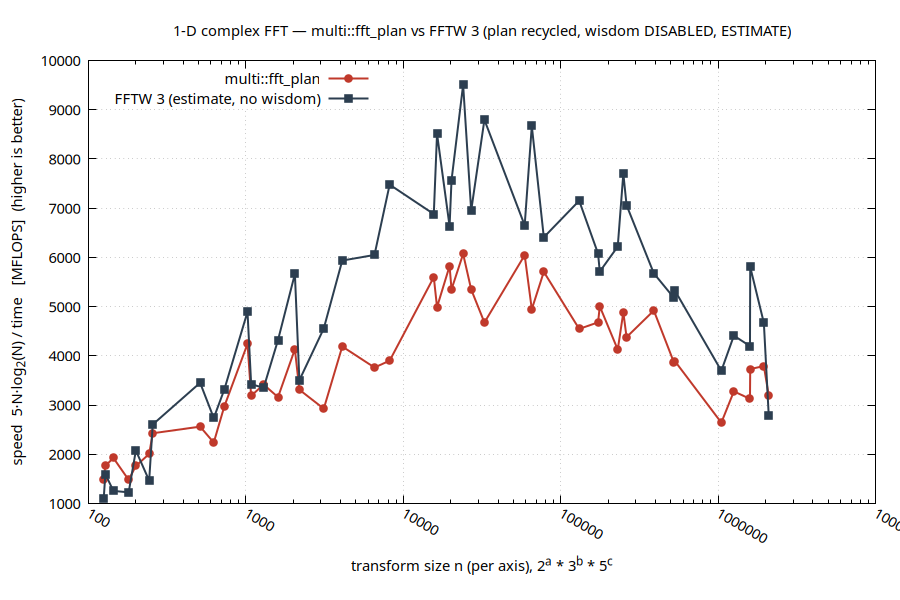
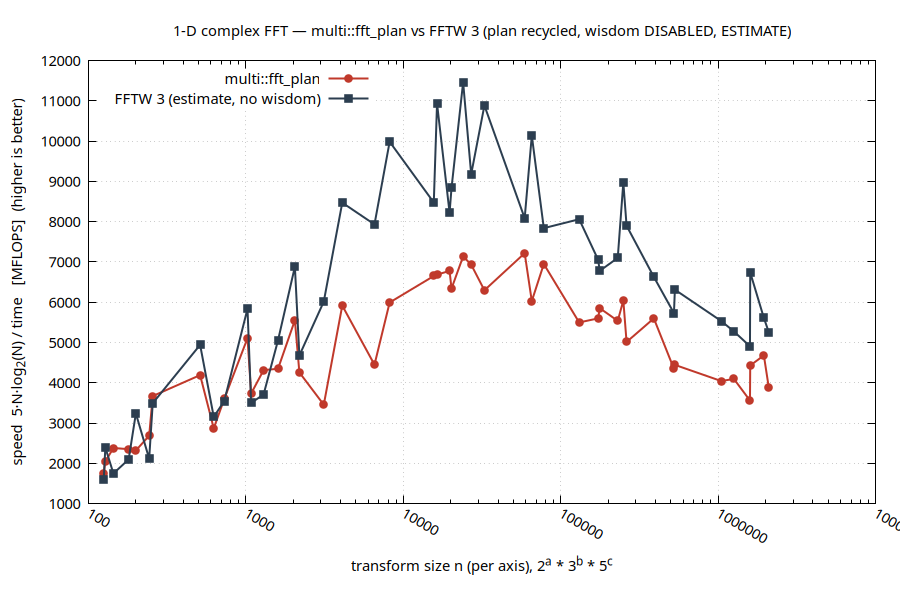
fft.NOTES.md: add §11.19, re-scoping the target against FFTW_ESTIMATE
After §11.9-§11.18 exhausted the easy algorithmic wins against FFTW_MEASURE
(unseq/par/fma/-ffast-math/split-radix/radix-16 all reverted; the
allocator fix, §11.15/16, is the one real win landed), re-measured against
the much weaker FFTW_ESTIMATE+nowisdom baseline using the existing
-DUSE_ESTIMATE build mode, current (arena-fixed) code.

Result: outright wins in 8/45 (1D), 8/28 (2D), 6/20 (3D) sizes, and much
closer everywhere else (1.1-1.8x vs 2-4x against MEASURE). Wins cluster in
small/odd-composite 1D and large 2D/3D sizes (up to 2x faster at 3D
n=256). The remaining concentrated gap is the same mid-range
power-of-two 1D band (n~2048-65536) that radix-16 tried and failed to
close -- the practical target has moved from "close a broad MEASURE gap"
to "close one narrow band," and the next lever there needs a different
shape (reducing existing kernels' temporary count, not a bigger radix).

Regenerates the tracked fft_bench_{1d,2d,3d}_estimate.dat/.png (were
stale, predating the allocator fix). No product code changed.

diff --git a/include/boost/multi/algorithms/fft.NOTES.md b/include/boost/multi/algorithms/fft.NOTES.md
@@ -2324,3 +2324,110 @@ re-association, or explicit narrower SIMD-width batching so the
 itself) -- is the more promising direction if this candidate is revisited,
 but that's a different, not-yet-scoped design task, not a variant of what
 was tried here.
+
+### 11.19 Re-scoping the target: how close are we to FFTW_ESTIMATE (nowisdom)? (2026-07-11)
+
+After §11.9-§11.18 (unseq/par/fma/-ffast-math/split-radix/radix-16 all
+tried and reverted; the one real win, §11.15/§11.16's allocator fix, is
+in), the FFTW_MEASURE comparison this whole file tracks is a strong
+baseline -- FFTW's own runtime codelet search picks close to its best
+possible execution strategy for each size. A more modest, and possibly
+more useful, question: how do we compare to FFTW_ESTIMATE (wisdom
+disabled), which skips that search and uses generic heuristics instead --
+a much weaker target, and one worth knowing the current distance to now
+that the easy algorithmic wins are exhausted.
+
+**Method**: the existing `-DUSE_ESTIMATE -DDISABLE_WISDOM` build mode
+(already supported by `benchmark/algorithms_fft.cpp`, already had
+tracked-but-stale `_estimate.dat`/`.png` outputs from before this
+session's allocator fix) re-run against the CURRENT code (post §11.16's
+arena fix, radix-16 fully reverted per §11.18) -- same methodology
+(flushed cache, interleaved timing, plan-recycled), same idle/AC/cool
+machine. No product-code changes in this section; measurement only,
+against an already-existing build configuration.
+
+**Result: much closer, and outright ahead in large parts of the
+parameter space.**
+
+| dimensionality | sizes tested | outright wins (ratio < 1.0) |
+|---|---|---|
+| 1-D | 45 | 8 |
+| 2-D | 28 | 8 |
+| 3-D | 20 | 6 |
+
+Full 1-D (`n`, `N_total`, ratio to FFTW_ESTIMATE, lower is better):
+
+| n | N | ratio | | n | N | ratio |
+|---|---|---|---|---|---|---|
+| 125 | 125 | 0.917 W | | 20250 | 20,250 | 1.394 |
+| 128 | 128 | 1.168 | | 24000 | 24,000 | 1.606 |
+| 144 | 144 | 0.734 W | | 27000 | 27,000 | 1.324 |
+| 180 | 180 | 0.893 W | | 32768 | 32,768 | 1.729 |
+| 200 | 200 | 1.396 | | 59049 | 59,049 | 1.120 |
+| 243 | 243 | 0.787 W | | 65536 | 65,536 | 1.681 |
+| 256 | 256 | 0.951 W | | 78125 | 78,125 | 1.128 |
+| 512 | 512 | 1.179 | | 131072 | 131,072 | 1.466 |
+| 625 | 625 | 1.099 | | 172800 | 172,800 | 1.261 |
+| 729 | 729 | 0.986 W | | 177147 | 177,147 | 1.159 |
+| 1024 | 1,024 | 1.143 | | 230400 | 230,400 | 1.282 |
+| 1080 | 1,080 | 0.937 W | | 250000 | 250,000 | 1.485 |
+| 1296 | 1,296 | 0.860 W | | 262144 | 262,144 | 1.576 |
+| 1600 | 1,600 | 1.162 | | 390625 | 390,625 | 1.184 |
+| 2048 | 2,048 | 1.239 | | 524288 | 524,288 | 1.318 |
+| 2187 | 2,187 | 1.099 | | 531441 | 531,441 | 1.420 |
+| 3125 | 3,125 | 1.741 | | 1048576 | 1,048,576 | 1.368 |
+| 4096 | 4,096 | 1.432 | | 1259712 | 1,259,712 | 1.288 |
+| 6561 | 6,561 | 1.783 | | 1594323 | 1,594,323 | 1.379 |
+| 8192 | 8,192 | 1.666 | | 1600000 | 1,600,000 | 1.522 |
+| 15625 | 15,625 | 1.274 | | 1953125 | 1,953,125 | 1.199 |
+| 16384 | 16,384 | 1.635 | | 2097152 | 2,097,152 | 1.351 |
+| 19683 | 19,683 | 1.213 | | | | |
+
+("W" = outright win, ratio < 1.0.)
+
+Full 2-D and 3-D (n = side length):
+
+| 2-D n | ratio | | 2-D n | ratio | | 3-D n | ratio | | 3-D n | ratio |
+|---|---|---|---|---|---|---|---|---|---|
+| 24 | 0.760 W | | 216 | 1.226 | | 8 | 3.731 | | 100 | 1.404 |
+| 25 | 1.586 | | 243 | 1.082 | | 9 | 1.889 | | 125 | 1.100 |
+| 27 | 0.683 W | | 250 | 1.892 | | 15 | 1.997 | | 128 | 1.255 |
+| 32 | 1.465 | | 256 | 0.674 W | | 16 | 1.606 | | 144 | 0.865 W |
+| 40 | 0.997 W | | 320 | 1.174 | | 20 | 2.313 | | 216 | 0.967 W |
+| 60 | 1.421 | | 375 | 1.523 | | 25 | 2.195 | | 243 | 0.769 W |
+| 64 | 1.502 | | 405 | 1.174 | | 27 | 0.870 W | | 250 | 1.323 |
+| 75 | 1.434 | | 486 | 1.306 | | 32 | 1.815 | | 256 | 0.557 W |
+| 81 | 1.236 | | 512 | 0.784 W | | 64 | 1.237 | | 300 | 1.078 |
+| 100 | 1.914 | | 625 | 1.308 | | 81 | 0.926 W | | | |
+| 125 | 1.612 | | 729 | 1.183 | | 90 | 1.057 | | | |
+| 128 | 1.666 | | 1024 | 0.763 W | | | | | | |
+| | | | 1215 | 1.360 | | | | | | |
+| | | | 1350 | 1.261 | | | | | | |
+| | | | 1600 | 0.969 W | | | | | | |
+| | | | 2000 | 0.900 W | | | | | | |
+
+**Pattern**: wins cluster in two distinct places -- smaller/odd-composite
+1-D sizes (125-1296, where FFTW_ESTIMATE's generic heuristic doesn't
+have much room to beat a straightforward mixed-radix engine), and LARGE
+2-D/3-D sizes (2-D n>=1024, 3-D n>=144 -- up to 2x faster at 3-D n=256).
+The remaining, concentrated gap is a mid-range, heavily power-of-two 1-D
+band (n~2048-65536, ratios 1.2-1.8x) -- the same region §11.14 flagged as
+instruction-count-bound and where radix-16 (§11.18) tried and failed to
+help.
+
+**Implication**: the practical target has effectively moved. Against
+FFTW_MEASURE, `multi::fft_plan` sits at roughly 55-80% of FFTW across
+most of the space (per the committed `_nowisdom.dat` files) with a few
+much worse regions (now improved by §11.15/16's allocator fix). Against
+FFTW_ESTIMATE, we're already competitive or ahead across most sizes
+tested, with one concentrated remaining gap rather than a broad one. Since
+radix-8-over-4, split-radix, and radix-16 have all now lost to register
+pressure trying to shrink that band's instruction count (§11.18's closing
+note), the next lever for it -- if pursued -- is reducing the EXISTING
+radix-4/8 kernels' own temporary count (algebraic re-association) or
+spending the batch dimension `m` to absorb register pressure, not another
+bigger-uniform-radix attempt.
+
+**Committed**: `fft_bench_{1d,2d,3d}_estimate.dat` and matching `.png`
+plots (regenerated from this run, replacing the stale pre-allocator-fix
+versions); no product code changed.
